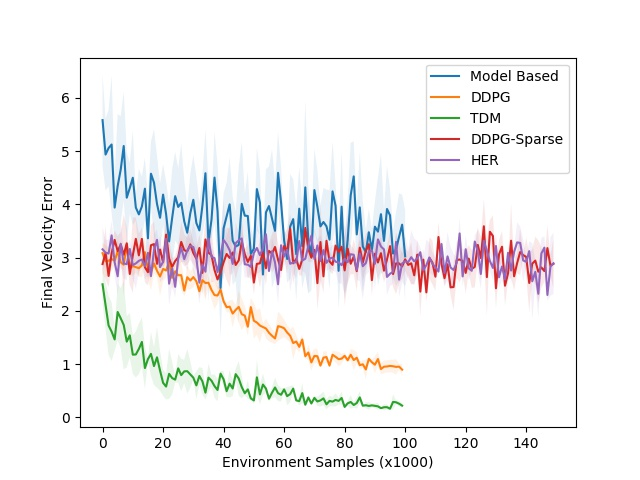
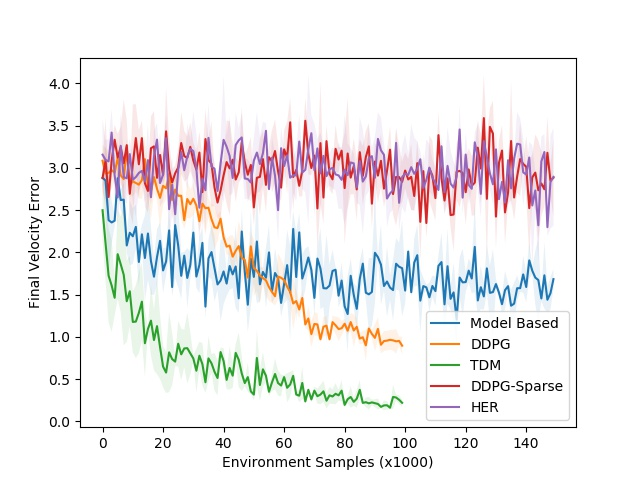
done with all except cheetah xpos results

diff --git a/experiments/state_distance/iclr2018/ant_results.py b/experiments/state_distance/iclr2018/ant_results.py
@@ -3,54 +3,6 @@ import matplotlib.pyplot as plt
 import numpy as np
 
 def main():
-    # ant_12_21_her_exp = Experiment(
-    #     "/home/vitchyr/git/railrl/data/doodads3/12-21-her-sac-ant-sweep/"
-    # )
-    # ant_12_21_tdm_her_exp = Experiment(
-    #     "/home/vitchyr/git/railrl/data/doodads3/12-21-tdm-her-sac-ant-sweep/"
-    # )
-    # ant_12_20_exp = Experiment(
-    #     "/home/vitchyr/git/railrl/data/doodads3/12-20-tdm-ant/"
-    # )
-    # sac_her_andrychowicz_trials = ant_12_21_her_exp.get_trials({
-    #     'sac_tdm_kwargs.tdm_kwargs.finite_horizon': False,
-    #     'sac_tdm_kwargs.tdm_kwargs.reward_type': 'sparse',
-    #     'sac_tdm_kwargs.tdm_kwargs.vectorized': False,
-    #     'sac_tdm_kwargs.tdm_kwargs.terminate_when_goal_reached': True,
-    #     'sac_tdm_kwargs.base_kwargs.reward_scale': 10,
-    # })
-    # sac_her_distance_trials = ant_12_21_her_exp.get_trials({
-    #     'sac_tdm_kwargs.tdm_kwargs.finite_horizon': False,
-    #     'sac_tdm_kwargs.tdm_kwargs.reward_type': 'distance',
-    #     'sac_tdm_kwargs.tdm_kwargs.vectorized': False,
-    #     'sac_tdm_kwargs.tdm_kwargs.terminate_when_goal_reached': False,
-    #     'sac_tdm_kwargs.base_kwargs.reward_scale': 10,
-    # })
-    # sac_trials = ant_12_19_exp.get_trials({
-    #     'algorithm': 'SAC',
-    #     'algo_params.reward_scale': 10,
-    # })
-    # sac_tdm_trials = ant_12_21_tdm_her_exp.get_trials({
-    #     'sac_tdm_kwargs.tdm_kwargs.finite_horizon': True,
-    #     'sac_tdm_kwargs.tdm_kwargs.reward_type': 'distance',
-    #     'sac_tdm_kwargs.tdm_kwargs.sample_train_goals_from': 'her',
-    #     'sac_tdm_kwargs.tdm_kwargs.dense_rewards': False,
-    #     'sac_tdm_kwargs.base_kwargs.reward_scale': 1000,
-    # })
-    #
-    # trpo_trials = ant_12_19_exp.get_trials({
-    #     'algorithm': 'TRPO',
-    #     'trpo_params.step_size': 0.001,
-    # })
-    # ddpg_her_distance_trials = ant_12_20_exp.get_trials({
-    #     'algorithm': 'HER-Dense DDPG',
-    #     'ddpg_tdm_kwargs.base_kwargs.reward_scale': 100,
-    #     'ddpg_tdm_kwargs.base_kwargs.discount': 0.95,
-    # })
-
-    ant_ddpg_exp = Experiment(
-        "/home/vitchyr/git/railrl/data/doodads3/12-23-ddpg-nupo-sweep-ant/"
-    )
     ant_her_final_exp = Experiment(
         "/home/vitchyr/git/railrl/data/doodads3/12-23-her-andrychowicz-ant-rebutal/"
     )
@@ -58,11 +10,13 @@ def main():
         "/home/vitchyr/git/railrl/data/doodads3/12-24-ddpg-nupo-sweep-ant/"
     )
 
-    ddpg_trials = ant_ddpg_exp.get_trials({
+    ddpg_trials = Experiment(
+        "/home/vitchyr/git/railrl/data/doodads3/12-23-ddpg-nupo-sweep-ant/"
+    ).get_trials({
         'exp_id': '19',
     })
     her_andrychowicz_trials = ant_her_final_exp.get_trials({
-        'exp_id': '20',
+        'exp_id': '10',
     })
     ddpg_tdm_trials = ant_tdm_exp.get_trials({
         'exp_id': '12',
@@ -82,20 +36,13 @@ def main():
     MAX_ITERS = 10001
 
     plt.figure()
+    base_key = 'Final Distance to goal Mean'
     for trials, name, key in [
-        (
-                her_andrychowicz_trials,
-                'HER',
-                'Final Distance to goal Mean',
-        ),
-        (ddpg_trials, 'DDPG', 'Final Distance to goal Mean'),
-        (
-             ddpg_tdm_trials,
-             'TDMs',
-             'Final Distance to goal Mean',
-        ),
-        (ddpg_indicator_trials, 'DDPG-Sparse', 'Final Distance to goal Mean'),
-        (mb_trials, 'Model-Based', 'Final Distance to goal Mean'),
+        (her_andrychowicz_trials, 'HER', base_key),
+        (ddpg_trials, 'DDPG', base_key),
+        (ddpg_tdm_trials, 'TDMs', base_key),
+        (ddpg_indicator_trials, 'DDPG-Sparse', base_key),
+        (mb_trials, 'Model-Based', base_key),
     ]:
         key = key.replace(" ", "_")
         all_values = []
@@ -105,11 +52,6 @@ def main():
             except:
                 import ipdb; ipdb.set_trace()
             all_values.append(values_ts)
-        if name != 'DDPG':
-            all_values = [
-                average_every_n_elements(values, 10)
-                for values in all_values
-            ]
         min_len = min(map(len, all_values))
         costs = np.vstack([
             values[:min_len]
@@ -124,7 +66,7 @@ def main():
         plt.fill_between(epochs, mean - std, mean + std, alpha=0.1)
         plt.plot(epochs, mean, label=name)
 
-    plt.xlabel("Environment Samples (x10,000)")
+    plt.xlabel("Environment Samples (x1,000)")
     plt.ylabel("Final Euclidean Distance to Goal Position")
     plt.legend()
     plt.savefig('results/iclr2018/ant.jpg')

diff --git a/experiments/state_distance/iclr2018/cheetah_xpos_results.py b/experiments/state_distance/iclr2018/cheetah_xpos_results.py
@@ -2,44 +2,54 @@ from railrl.misc.data_processing import Experiment
 import matplotlib.pyplot as plt
 import numpy as np
 
-mb_trials = Experiment(
-    "/home/vitchyr/git/railrl/data/doodads3/12-13-abhishek-mb-cheetah-max-vel5/"
-).get_trials()
 ddpg_trials = Experiment(
-    "/home/vitchyr/git/railrl/data/doodads3/12-12-tdm-half-cheetah-short-epoch-nupo-sweep/"
+    "/home/vitchyr/git/railrl/data/doodads3/12-17-tdm-half-cheetah-xpos/"
 ).get_trials({
-    'exp_id': '5',
     'algorithm': 'DDPG',
+    'multitask': True,
+    'exp_id': '0',
 })
 tdm_trials = Experiment(
-    "/home/vitchyr/git/railrl/data/doodads3/12-12-tdm-half-cheetah-short-epoch-nupo-sweep/"
+    "/home/vitchyr/git/railrl/data/doodads3/12-17-tdm-half-cheetah-xpos/"
 ).get_trials({
-    'exp_id': '8',
     'algorithm': 'DDPG-TDM',
+    'multitask': True,
+    'exp_id': '3',
+})
+mb_trials = Experiment(
+    "/home/vitchyr/git/railrl/data/doodads3/12-24-dagger-mb-ant-cheetah-pos-and-vel/"
+).get_trials({
+    'exp_id': '2'
 })
 ddpg_indicator_trials = Experiment(
-    ""
+    "/home/vitchyr/git/railrl/data/doodads3/12-23-ddpg-sparse-sweep-4/"
 ).get_trials({
-
+    'env_class.$class':
+        'railrl.envs.multitask.half_cheetah.GoalXPosHalfCheetah',
+    'exp_id': '13',
 })
-her_exp = Experiment(
-    ""
-)
 her_andry_trials = Experiment(
-    ""
+    "/home/vitchyr/git/railrl/data/doodads3/12-24-her-andrychowicz-cheetah-xpos-rebutal/"
 ).get_trials({
-
+    'exp_id': '5',
 })
 
-MAX_ITERS = 150
+MAX_ITERS = 10000
 plt.figure()
+base_key = 'Final_Distances_to_goal_Mean'
+key2 = 'Final_Distance_to_goal_Mean'
 for trials, name, key in [
-    (mb_trials, 'Model Based', 'Final_xpos_errors_Mean'),
-    (ddpg_trials, 'DDPG', 'Final_xpos_errors_Mean'),
-    (tdm_trials, 'TDM', 'Final_xpos_errors_Mean'),
+    (mb_trials, 'Model Based', key2),
+    (ddpg_trials, 'DDPG', base_key),
+    (tdm_trials, 'TDM', base_key),
+    (her_andry_trials, 'HER', base_key),
+    (ddpg_indicator_trials, 'DDPG-Sparse', base_key),
 ]:
     all_values = []
     min_len = np.inf
+    if len(trials) == 0:
+        print(name)
+        import ipdb; ipdb.set_trace()
     for trial in trials:
         try:
             values_ts = trial.data[key]
@@ -62,9 +72,9 @@ for trials, name, key in [
 
 
 # plt.xscale('log')
-plt.xlabel("Environment Samples (x1000)")
+plt.xlabel("Environment Samples (x1,000)")
 plt.ylabel("Velocity Error")
 # plt.title(r"Half Cheetah: Velocity Error vs Environment Samples")
 plt.legend()
-plt.savefig('results/iclr2018/cheetah.jpg')
+plt.savefig('results/iclr2018/cheetah-xpos.jpg')
 plt.show()

diff --git a/experiments/state_distance/iclr2018/reacher_results.py b/experiments/state_distance/iclr2018/reacher_results.py
@@ -3,15 +3,10 @@ import matplotlib.pyplot as plt
 import numpy as np
 
 
-her_exp = Experiment(
-    "/home/vitchyr/git/railrl/data/doodads3/12-22-her-andrychowicz-try-hard-2/"
-)
-her_andry_trials = her_exp.get_trials({
-    'env_class.$class':
-        "railrl.envs.multitask.reacher_7dof.Reacher7DofXyzGoalState",
-    'ddpg_tdm_kwargs.base_kwargs.reward_scale': 100,
-    'ddpg_tdm_kwargs.base_kwargs.num_updates_per_env_step': 1,
-    'ddpg_tdm_kwargs.ddpg_kwargs.tau': 0.05,
+her_andry_trials = Experiment(
+    '/home/vitchyr/git/railrl/data/doodads3/12-24-her-andrychowicz-reacher-rebutal/'
+).get_trials({
+    'exp_id': '7',
 })
 
 ddpg_path = "/mnt/data-backup-12-02-2017/doodads3/10-25-ddpg" \

diff --git a/experiments/state_distance/iclr2018/cheetah_results.py b/experiments/state_distance/iclr2018/cheetah_results.py
@@ -3,8 +3,11 @@ import matplotlib.pyplot as plt
 import numpy as np
 
 mb_trials = Experiment(
-    "/home/vitchyr/git/railrl/data/doodads3/12-13-abhishek-mb-cheetah-max-vel5/"
-).get_trials()
+    # "/home/vitchyr/git/railrl/data/doodads3/12-13-abhishek-mb-cheetah-max-vel5/"
+    "/home/vitchyr/git/railrl/data/doodads3/12-24-dagger-mb-ant-cheetah-pos-and-vel/"
+).get_trials({
+    'exp_id': '0',
+})
 ddpg_trials = Experiment(
     "/home/vitchyr/git/railrl/data/doodads3/12-12-tdm-half-cheetah-short-epoch-nupo-sweep/"
 ).get_trials({

diff --git a/railrl/misc/data_processing.py b/railrl/misc/data_processing.py
@@ -179,7 +179,11 @@ def get_data_and_variants(base_dir, verbose=False):
         if num_lines < 2:
             continue
         data = np.genfromtxt(
-            data_file_name, delimiter=delimiter, dtype=None, names=True
+            data_file_name,
+            delimiter=delimiter,
+            dtype=None,
+            names=True,
+            # dtype=str,
         )
         data_and_variants.append((data, variant))
     return data_and_variants
